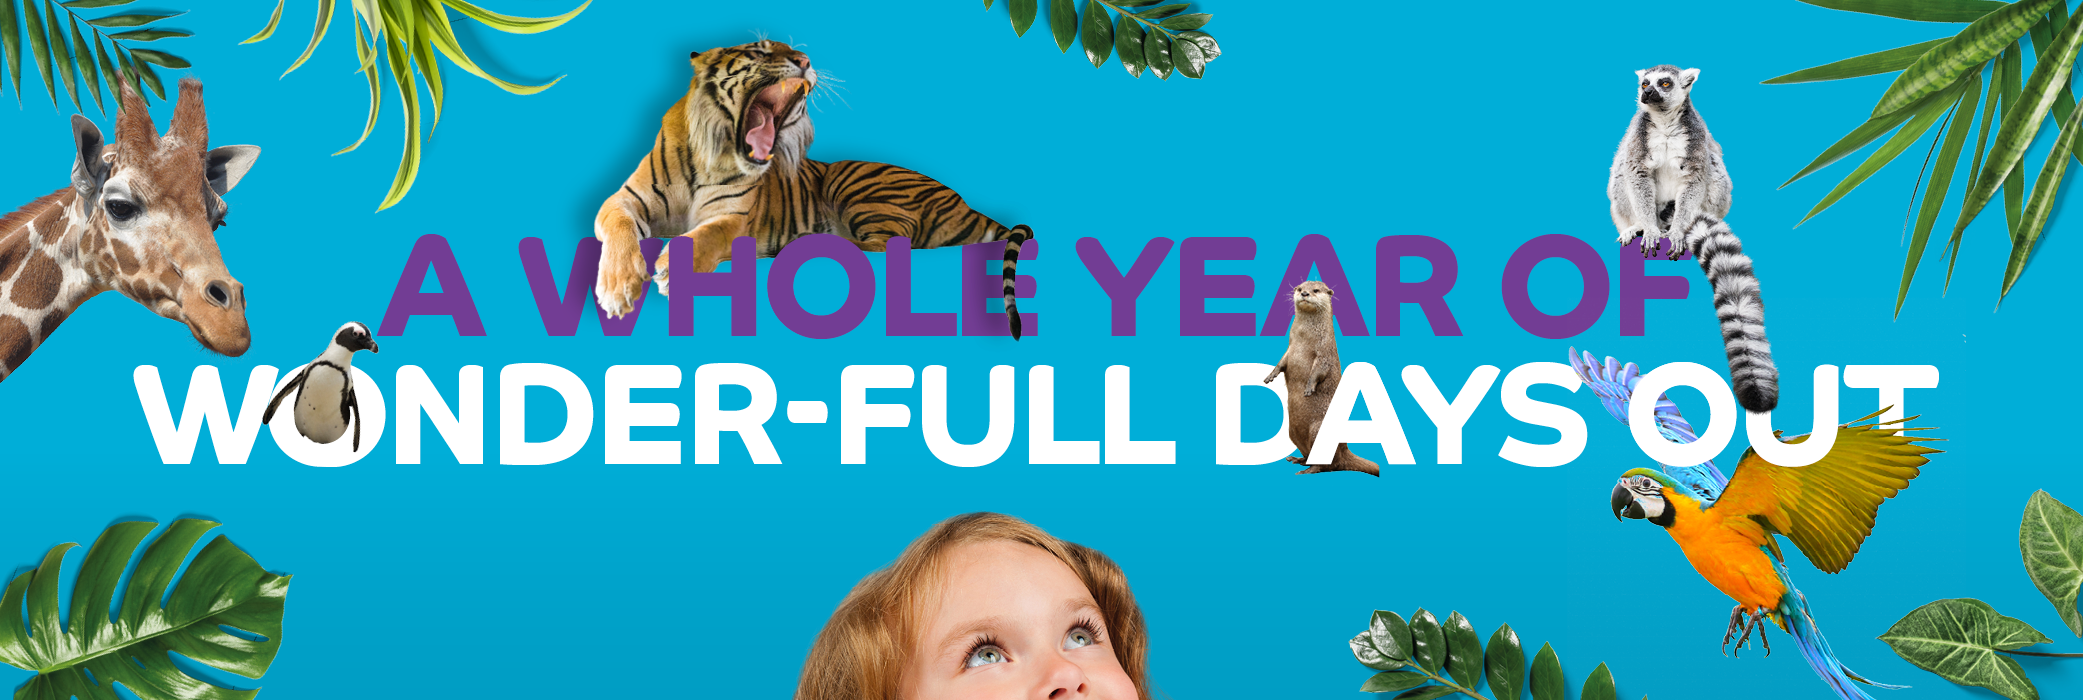
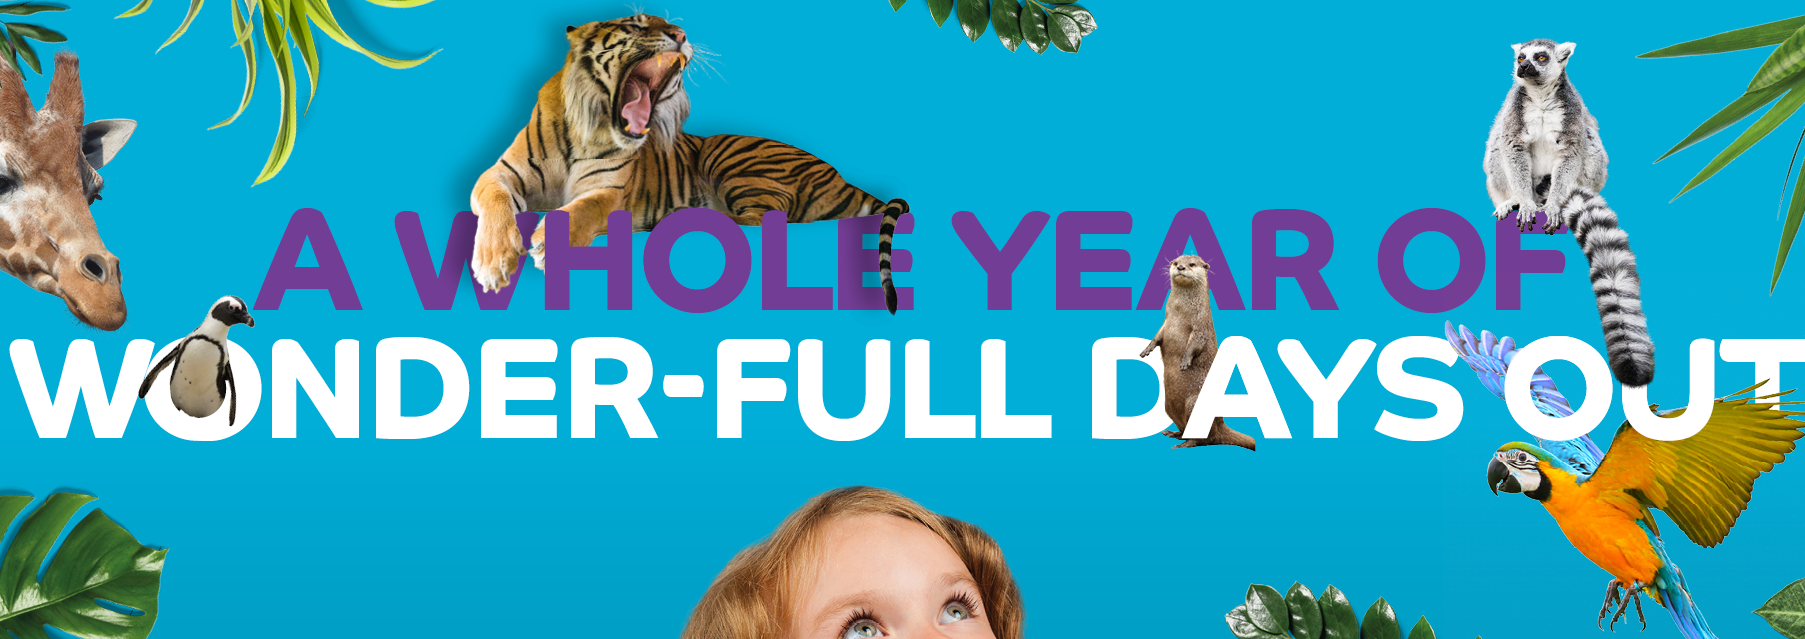
formatted carousel feature

diff --git a/index.html b/index.html
@@ -11,7 +11,7 @@
         <link href="https://fonts.googleapis.com/css2?family=Cormorant+Garamond:ital,wght@0,300;0,400;1,300;1,400&family=Lobster&family=Tajawal:wght@300;400&display=swap" rel="stylesheet">
     </head>
     <body>
-        <nav class="navbar navbar-expand-sm bg-success navbar-dark">
+        <nav class="navbar navbar-expand-sm bg-success navbar-dark"> 
             <ul class="navbar-nav">
                 <li class="nav-item">
                     <a class="nav-link active" href="index.html">Home</a>
@@ -39,21 +39,21 @@
                 <li data-target="#carouselExampleIndicators" data-slide-to="4"></li>
             </ol>
         
-            <div class="carousel-inner">
-                <div class="carousel-item active">
+            <div class="carousel-inner" style="width: auto; height: 500px; margin: 0 auto; " >
+                <div class="carousel-item active" style="align-items: center;">
                     <img class="d-block wid mx-auto rounded" src="20022_ZSL_MembershipUpdateMay2020_EmailHeader_1000x336_AW.png" alt="Zoo">
                 </div>
-                <div class="carousel-item">
-                    <img class="d-block wid mx-auto rounded" src="london-zoo-1730x730-c.jpg" alt="Zoo_Animals">
+                <div class="carousel-item" style="align-items: center;">
+                    <img class="d-block wid mx-auto rounded" src="1366646111967.jpg" alt="Zoo_Animals">
                 </div>
-                <div class="carousel-item">
-                    <img class="d-block wid mx-auto rounded" src="LZ Bhanu Birthday.jpg" alt="Zoo_Lions">
+                <div class="carousel-item" style="align-items: center;">
+                    <img class="d-block wid mx-auto rounded" src="maxresdefault.jpg" alt="Zoo_Lions">
                 </div>
-                <div class="carousel-item">
+                <div class="carousel-item" style="align-items: center;">
                     <img class="d-block wid mx-auto rounded" src="Main-Entrance_1936.jpg" alt="Zoo_LZ">
                 </div>
-                <div class="carousel-item">
-                    <img class="d-block wid mx-auto rounded" src="maxresdefault.jpg" alt="Zoo_Logo">
+                <div class="carousel-item" style="align-items: center;">
+                    <img class="d-block wid mx-auto rounded" src="maxresdefault (1).jpg" alt="Zoo_Logo">
                 </div>
             </div>
 
